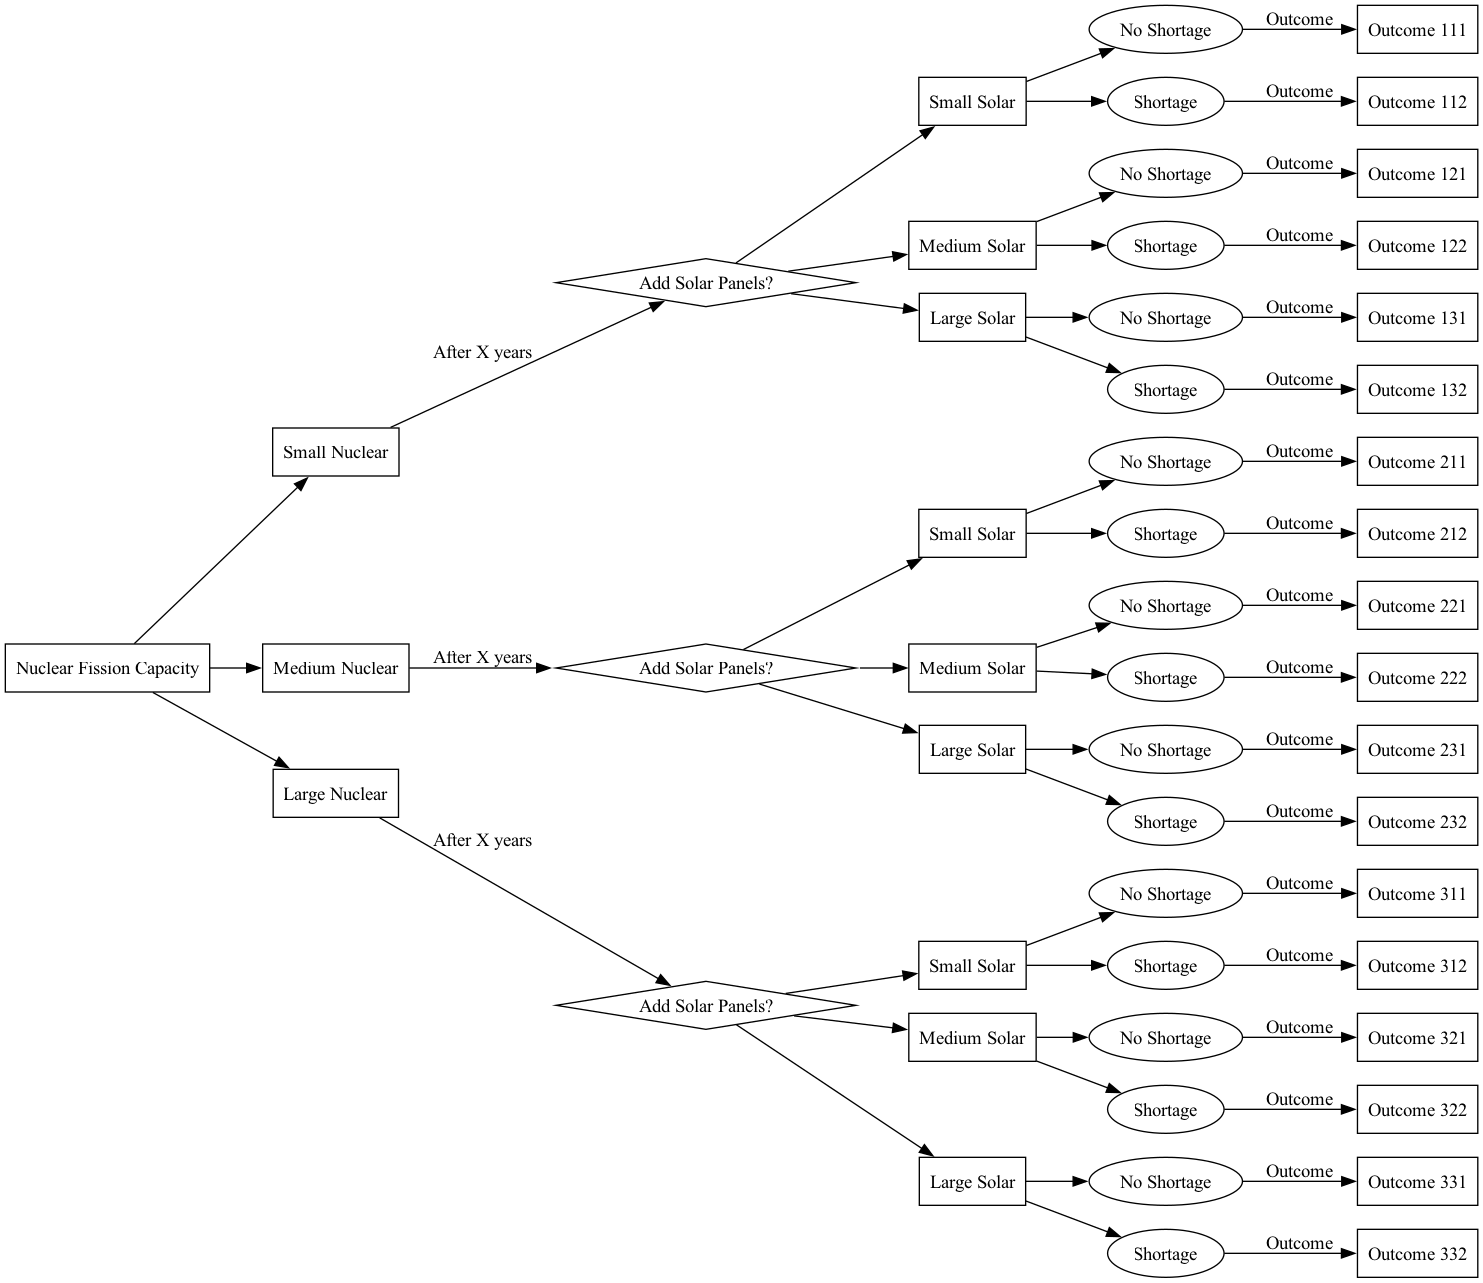
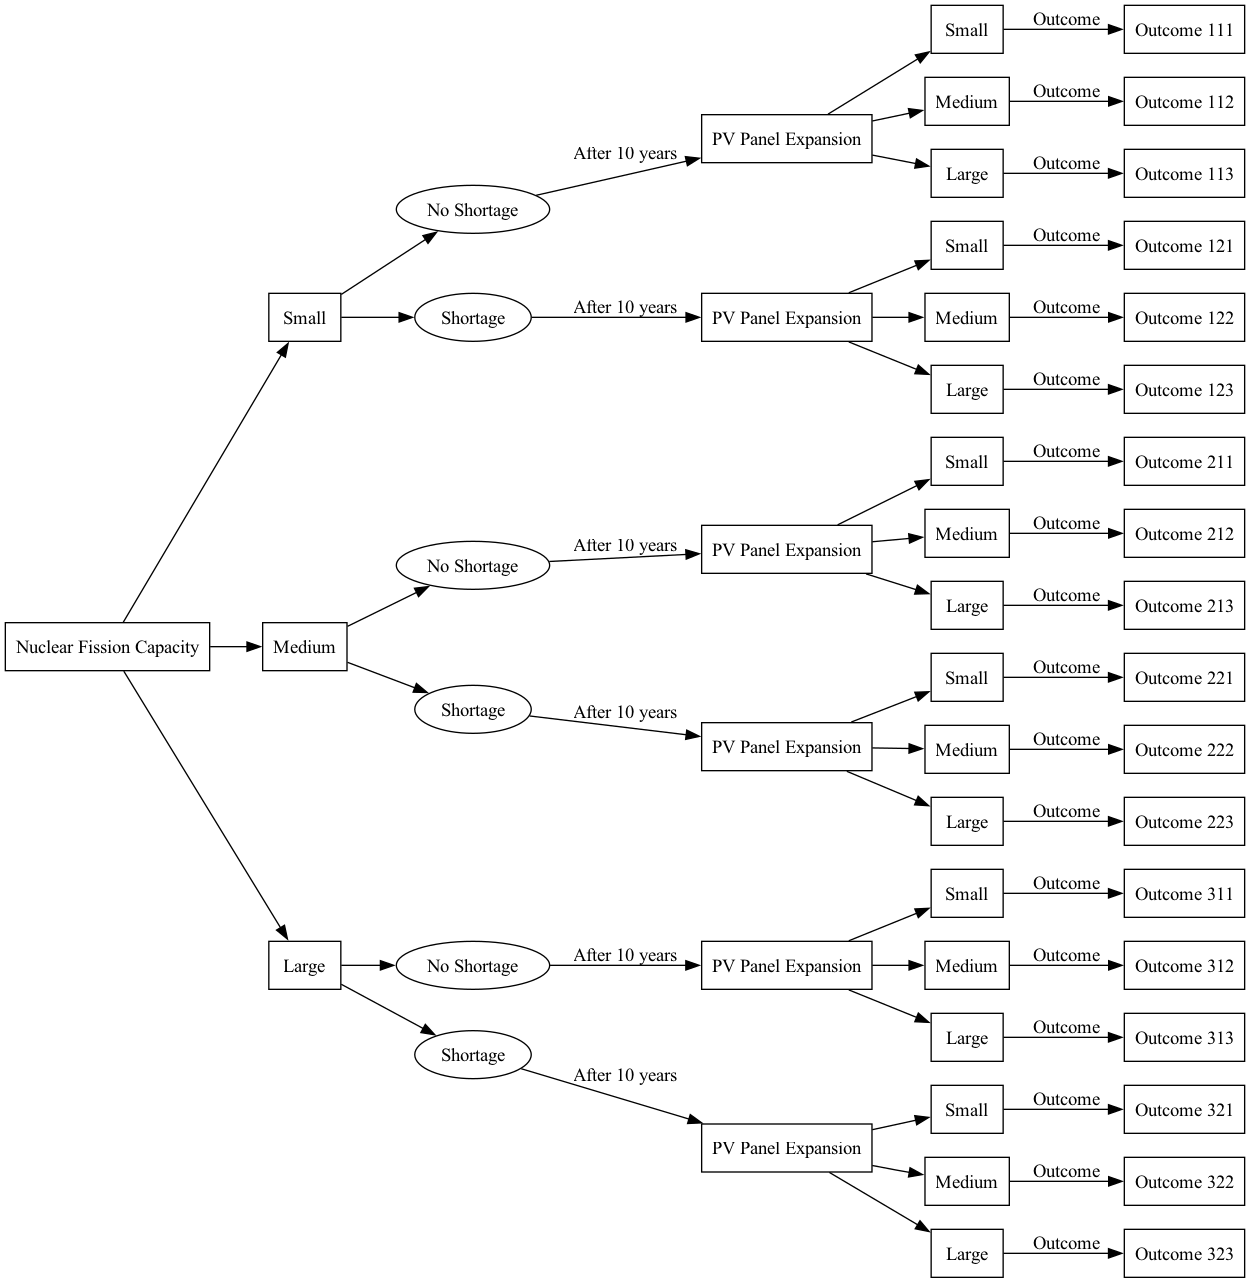
help

diff --git a/decision_tree.py b/decision_tree.py
@@ -4,8 +4,8 @@ from graphviz import Digraph
 dtree = Digraph(comment='Lunar Energy System Decision Tree', graph_attr={'rankdir': 'LR'})
 
 # Define the initial decision nodes for nuclear fission capacity
-nuclear_options = ['Small Nuclear', 'Medium Nuclear', 'Large Nuclear']
-solar_options = ['Small Solar', 'Medium Solar', 'Large Solar']
+nuclear_options = ['Small', 'Medium', 'Large']
+solar_options = ['Small', 'Medium', 'Large']
 chance_nodes = ['No Shortage', 'Shortage']
 
 # Adding the initial decision node
@@ -13,29 +13,31 @@ dtree.node('A', 'Nuclear Fission Capacity', shape='box')
 
 # Adding nodes for nuclear options
 for i, option in enumerate(nuclear_options, start=1):
-    dtree.node(f'B{i}', option, shape='box')
-    dtree.edge('A', f'B{i}', label=' ')
+    nuc_node_id = f'B{i}'
+    dtree.node(nuc_node_id, option, shape='box')
+    dtree.edge('A', nuc_node_id, label=' ')
+    
+    # Adding chance nodes for energy shortages between nuclear decision and solar panel decision
+    for sc, chance in enumerate(chance_nodes, start=1):
+        shortage_node_id = f'SC{i}{sc}'
+        dtree.node(shortage_node_id, chance, shape='ellipse')
+        dtree.edge(nuc_node_id, shortage_node_id, label='')
 
-    # Adding decision nodes for adding solar panels after X years
-    dtree.node(f'C{i}', 'Add Solar Panels?', shape='diamond')
-    dtree.edge(f'B{i}', f'C{i}', label='After X years')
-
-    # Adding nodes for solar panel options
-    for j, solar_option in enumerate(solar_options, start=1):
-        node_id = f'D{i}{j}'
-        dtree.node(node_id, solar_option, shape='box')
-        dtree.edge(f'C{i}', node_id, label=' ')
-
-        # Adding chance nodes for energy demand
-        for k, chance_node in enumerate(chance_nodes, start=1):
-            chance_id = f'E{i}{j}{k}'
-            dtree.node(chance_id, chance_node, shape='ellipse')
-            dtree.edge(node_id, chance_id, label=' ')
+        # Adding decision nodes for adding solar panels after X years
+        sol_node_id = f'C{i}{sc}'
+        dtree.node(sol_node_id, 'PV Panel Expansion', shape='box')
+        dtree.edge(shortage_node_id, sol_node_id, label='After 10 years')
+    
+        # Adding nodes for solar panel options
+        for j, solar_option in enumerate(solar_options, start=1):
+            solar_option_node_id = f'D{i}{sc}{j}'
+            dtree.node(solar_option_node_id, solar_option, shape='box')
+            dtree.edge(sol_node_id, solar_option_node_id, label=' ')
 
             # Add an outcome node for each path
-            outcome_id = f'Outcome{i}{j}{k}'
-            dtree.node(outcome_id, f'Outcome {i}{j}{k}', shape='box')
-            dtree.edge(chance_id, outcome_id, label='Outcome')
+            outcome_id = f'Outcome{i}{sc}{j}'
+            dtree.node(outcome_id, f'Outcome {i}{sc}{j}', shape='box')
+            dtree.edge(solar_option_node_id, outcome_id, label='Outcome')
 
 # Visualize the decision tree
 output_path = '/Users/kennardmah/Documents/GitHub/masters-thesis-sustainable-lunar-energy/lunar_energy_decision_tree'

diff --git a/testing.py b/testing.py
@@ -1,0 +1,47 @@
+from graphviz import Digraph
+
+def create_cost_decision_tree():
+    dtree = Digraph(comment='Lunar Energy System Cost Decision Tree', graph_attr={'rankdir': 'LR'})
+
+    # Styles for the decision tree
+    decision_style = {'shape': 'rect'}
+    chance_style = {'shape': 'circle'}
+    cost_style = {'shape': 'rect'}
+
+    # Initial decision node for nuclear fission capacity
+    dtree.node('A', 'Nuclear Fission Capacity\nInitial Cost', **decision_style)
+
+    nuclear_costs = {'Flexible Small': '20', 'Flexible Medium': '50', 'Inflexible Large': '100'}
+    solar_costs = {'Small': '20', 'Medium': '40', 'Large': '60'}
+    shortage_costs = {'No Shortage': '0', 'Shortage': '50'}
+
+    # Adding nodes for nuclear options with their costs
+    for i, (option, cost) in enumerate(nuclear_costs.items(), start=1):
+        nuc_node_id = f'B{i}'
+        dtree.node(nuc_node_id, f'{option} Nuclear\n{cost}', **decision_style)
+        dtree.edge('A', nuc_node_id, label=' ')
+
+        # Chance nodes for energy shortages with their costs
+        for sc, (chance, shortage_cost) in enumerate(shortage_costs.items(), start=1):
+            chance_node_id = f'SC{i}{sc}'
+            dtree.node(chance_node_id, f'{chance}\n{shortage_cost}', **chance_style)
+            dtree.edge(nuc_node_id, chance_node_id, label=' ')
+
+            # Decision nodes for adding solar panels with their costs
+            for j, (solar_option, solar_cost) in enumerate(solar_costs.items(), start=1):
+                solar_node_id = f'D{i}{sc}{j}'
+                dtree.node(solar_node_id, f'{solar_option} Solar\n{solar_cost}', **decision_style)
+                dtree.edge(chance_node_id, solar_node_id, label=' ')
+
+                # Cost outcomes
+                outcome_id = f'Outcome{i}{sc}{j}'
+                final_cost = 'FinalCost'  # Placeholder for final cost calculation
+                dtree.node(outcome_id, f'Outcome\n{final_cost}', **cost_style)
+                dtree.edge(solar_node_id, outcome_id, label=' ')
+
+    # Render the decision tree
+    output_path = 'lunar_energy_cost_decision_tree'
+    dtree.render(output_path, format='png', cleanup=True)
+    print(f"Decision tree visualization saved as {output_path}.png")
+
+create_cost_decision_tree()
